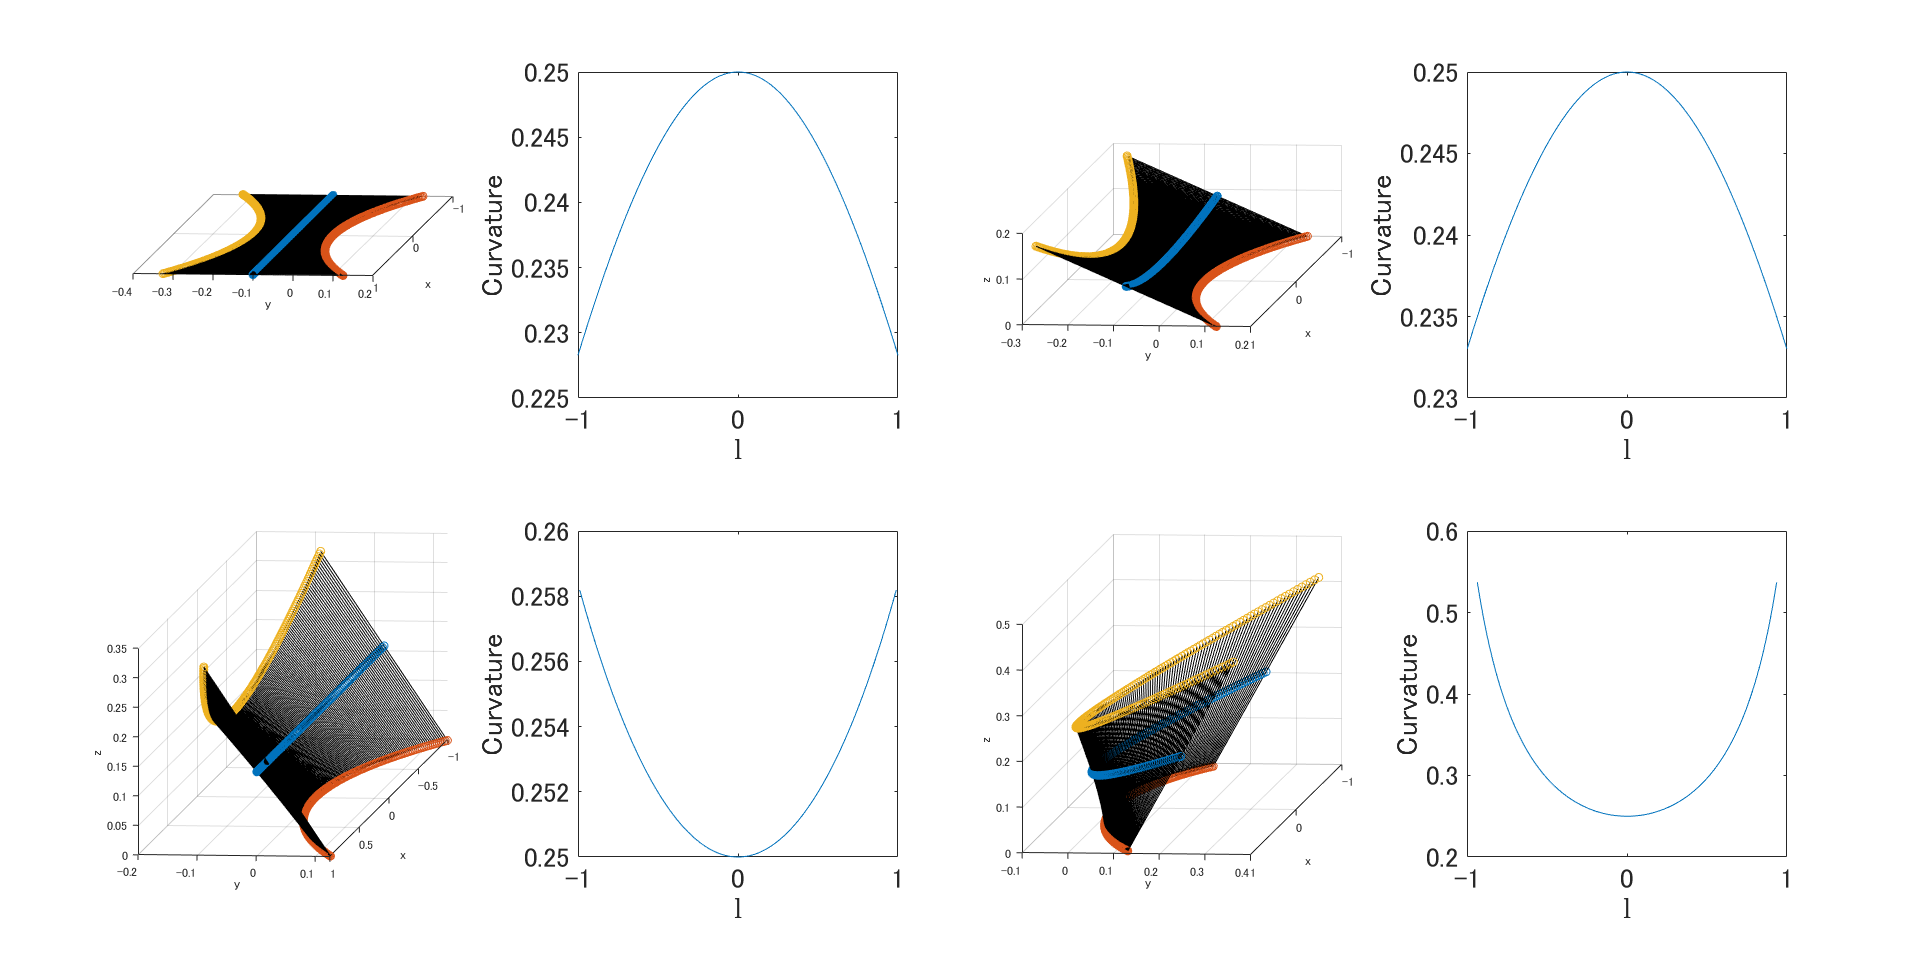
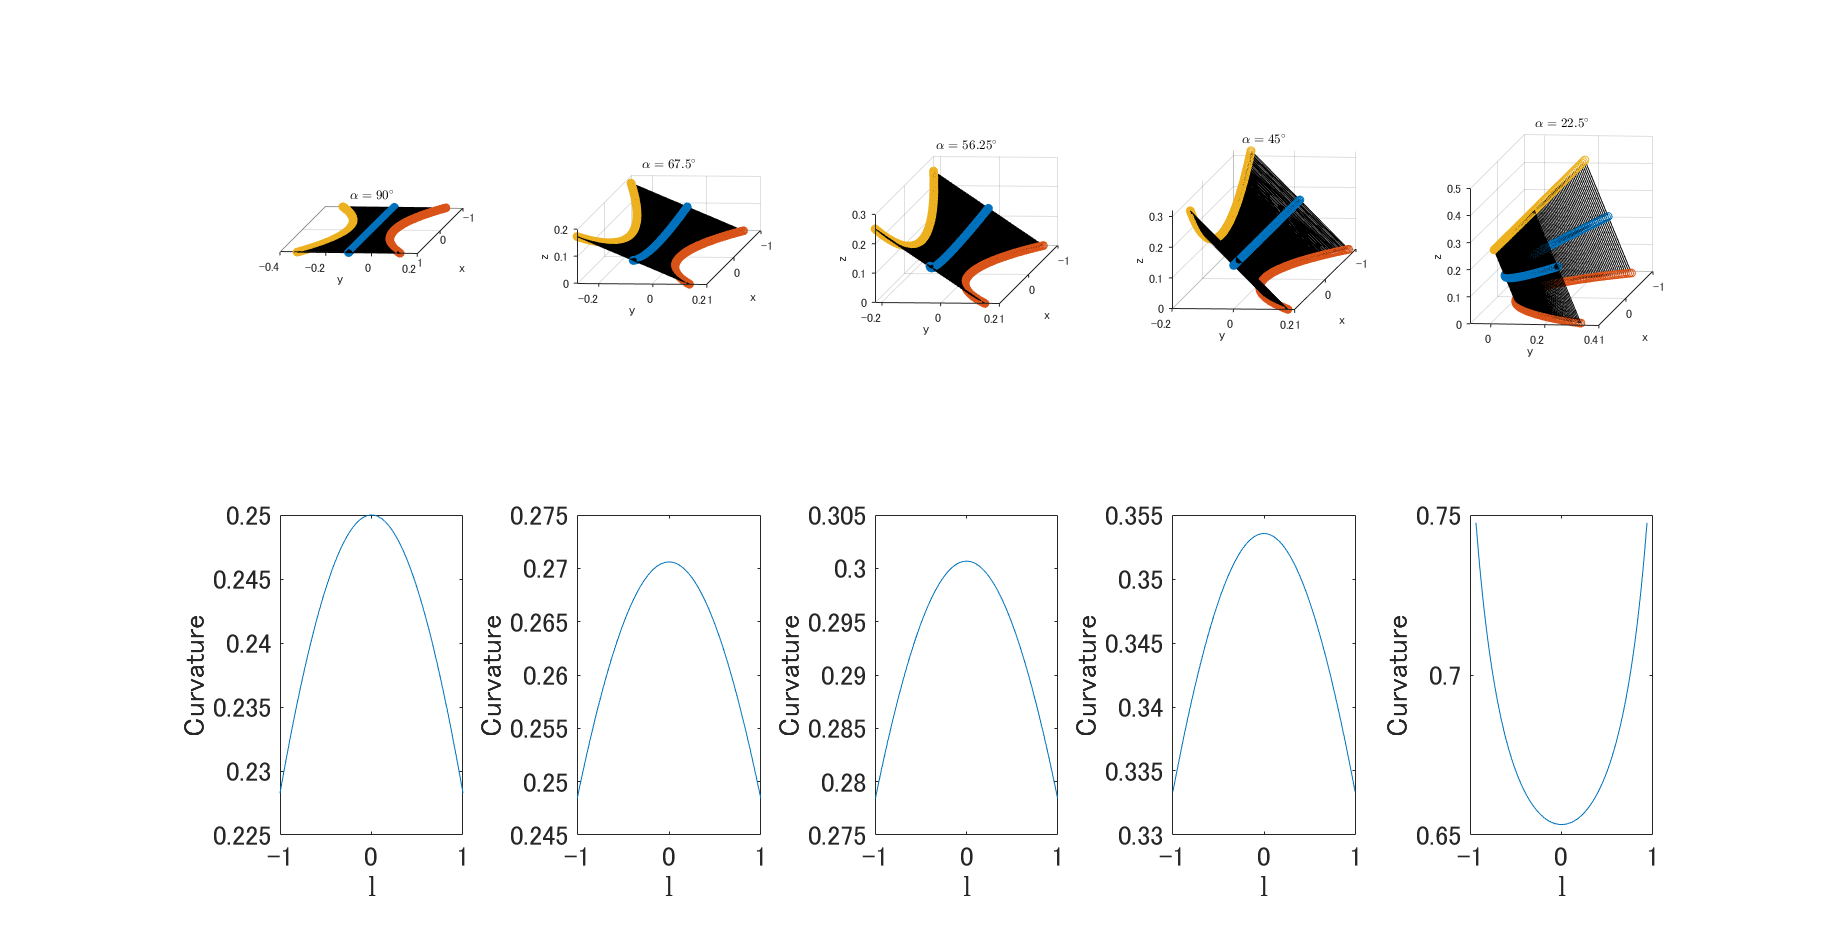
update sim config

diff --git a/edge_shape.m b/edge_shape.m
@@ -38,7 +38,7 @@ edge_in_xyz_fcn = matlabFunction(edge_in_xyz);
 opposite_edge_in_xyz_fcn = matlabFunction(opposite_edge_in_xyz);
 
 % alpha_all = [4]/32 * pi; alpha_all = alpha_all';
-alpha_all = [16, 12, 8, 4, 3]/32 * pi; alpha_all = alpha_all';
+alpha_all = [16, 12, 10, 8, 4]/32 * pi; alpha_all = alpha_all';
 l = -1:1e-2:1; l = l';
 
 for alpha_index = 1:size(alpha_all, 1)
